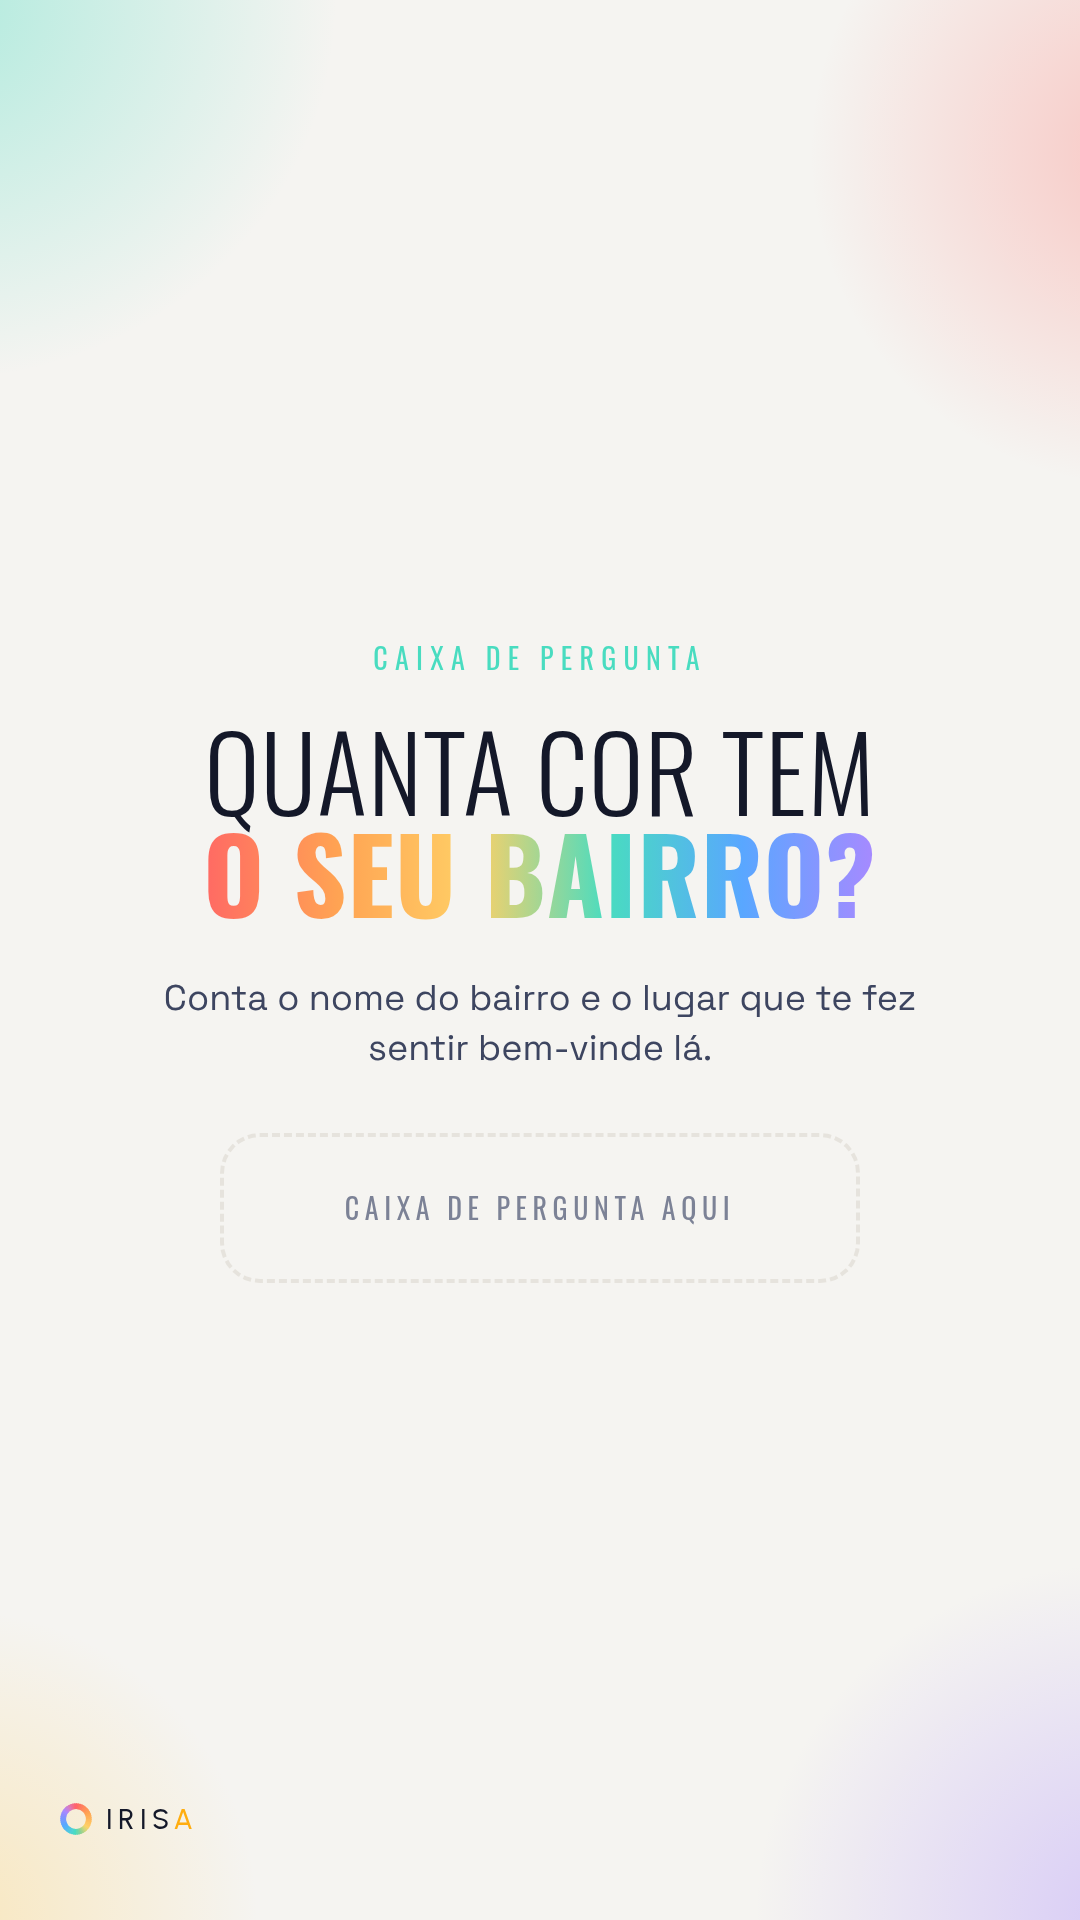
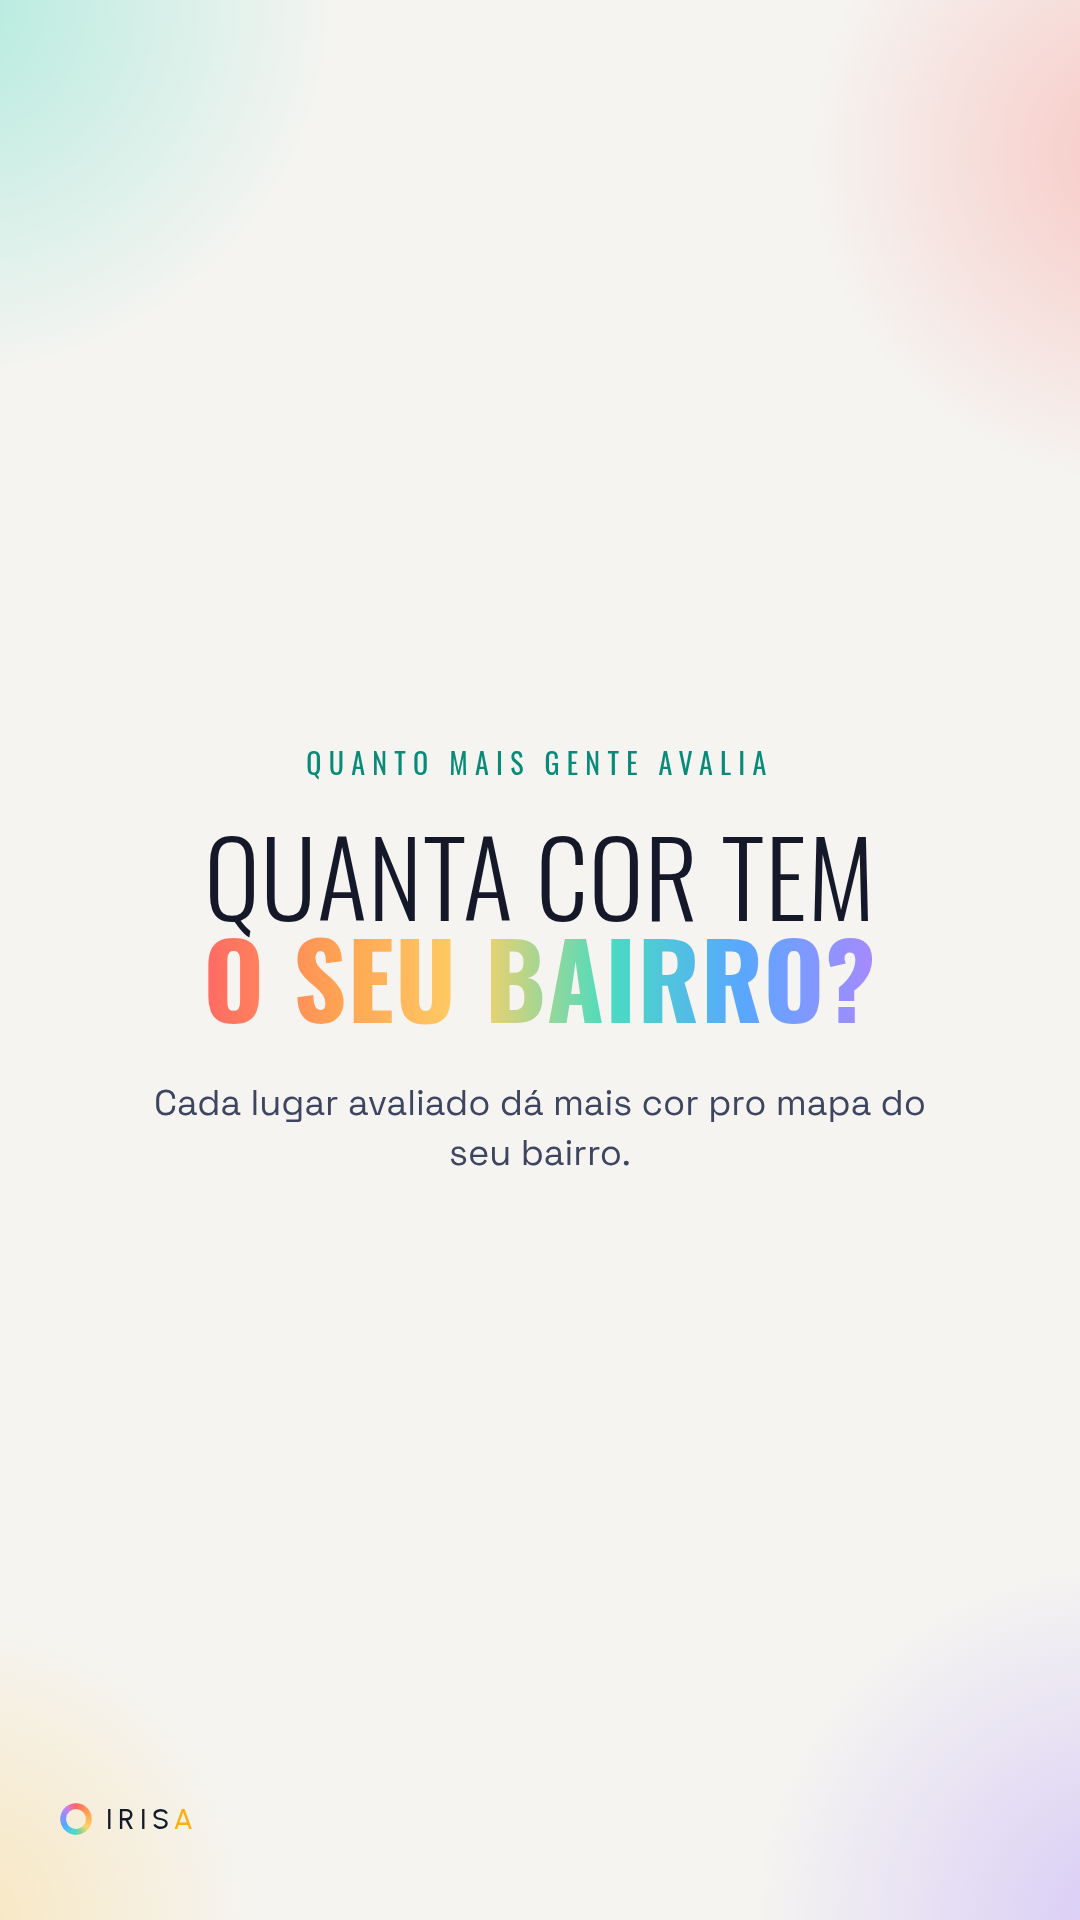
stories-2: remove dependência de adesivo (quiz/caixa/enquete) em 01-03, sem CTA de comentário; 04 continua manual (link)

diff --git a/docs/stories-2.html b/docs/stories-2.html
@@ -491,21 +491,19 @@ span.mark::before{content:"";position:absolute;left:50%;top:50%;width:8px;height
 <body>
 <svg style="position:absolute;width:0;height:0" aria-hidden="true"><defs><symbol id="radarmark" viewBox="0 0 100 100"><path d="M50.00 1.00A49 49 0 0 1 58.82 1.80L55.58 19.51A31 31 0 0 0 50.00 19.00Z" fill="#ff6964"/><path d="M56.40 1.42A49 49 0 0 1 65.03 3.36L59.51 20.49A31 31 0 0 0 54.05 19.27Z" fill="#ff7062"/><path d="M62.68 2.67A49 49 0 0 1 70.99 5.72L63.28 21.99A31 31 0 0 0 58.02 20.06Z" fill="#ff7760"/><path d="M68.75 4.73A49 49 0 0 1 76.59 8.84L66.82 23.96A31 31 0 0 0 61.86 21.36Z" fill="#ff7f5d"/><path d="M74.50 7.56A49 49 0 0 1 81.73 12.67L70.08 26.38A31 31 0 0 0 65.50 23.15Z" fill="#ff875c"/><path d="M79.83 11.13A49 49 0 0 1 86.34 17.13L72.99 29.20A31 31 0 0 0 68.87 25.41Z" fill="#ff8e5a"/><path d="M84.65 15.35A49 49 0 0 1 90.32 22.15L75.51 32.38A31 31 0 0 0 71.92 28.08Z" fill="#ff9558"/><path d="M88.87 20.17A49 49 0 0 1 93.61 27.65L77.59 35.86A31 31 0 0 0 74.59 31.13Z" fill="#ff9c55"/><path d="M92.44 25.50A49 49 0 0 1 96.15 33.53L79.20 39.58A31 31 0 0 0 76.85 34.50Z" fill="#ffa353"/><path d="M95.27 31.25A49 49 0 0 1 97.91 39.70L80.31 43.48A31 31 0 0 0 78.64 38.14Z" fill="#ffa955"/><path d="M97.33 37.32A49 49 0 0 1 98.84 46.04L80.90 47.49A31 31 0 0 0 79.94 41.98Z" fill="#ffae58"/><path d="M98.58 43.60A49 49 0 0 1 98.94 52.45L80.96 51.55A31 31 0 0 0 80.73 45.95Z" fill="#ffb35a"/><path d="M99.00 50.00A49 49 0 0 1 98.20 58.82L80.49 55.58A31 31 0 0 0 81.00 50.00Z" fill="#ffb95d"/><path d="M98.58 56.40A49 49 0 0 1 96.64 65.03L79.51 59.51A31 31 0 0 0 80.73 54.05Z" fill="#ffbf5f"/><path d="M97.33 62.68A49 49 0 0 1 94.28 70.99L78.01 63.28A31 31 0 0 0 79.94 58.02Z" fill="#ffc561"/><path d="M95.27 68.75A49 49 0 0 1 91.16 76.59L76.04 66.82A31 31 0 0 0 78.64 61.86Z" fill="#ffc964"/><path d="M92.44 74.50A49 49 0 0 1 87.33 81.73L73.62 70.08A31 31 0 0 0 76.85 65.50Z" fill="#ffd066"/><path d="M88.87 79.83A49 49 0 0 1 82.87 86.34L70.80 72.99A31 31 0 0 0 74.59 68.87Z" fill="#efd46c"/><path d="M84.65 84.65A49 49 0 0 1 77.85 90.32L67.62 75.51A31 31 0 0 0 71.92 71.92Z" fill="#d7d679"/><path d="M79.83 88.87A49 49 0 0 1 72.35 93.61L64.14 77.59A31 31 0 0 0 68.87 74.59Z" fill="#bed582"/><path d="M74.50 92.44A49 49 0 0 1 66.47 96.15L60.42 79.20A31 31 0 0 0 65.50 76.85Z" fill="#a3d38c"/><path d="M68.75 95.27A49 49 0 0 1 60.30 97.91L56.52 80.31A31 31 0 0 0 61.86 78.64Z" fill="#8bd296"/><path d="M62.68 97.33A49 49 0 0 1 53.96 98.84L52.51 80.90A31 31 0 0 0 58.02 79.94Z" fill="#74d6a4"/><path d="M56.40 98.58A49 49 0 0 1 47.55 98.94L48.45 80.96A31 31 0 0 0 54.05 80.73Z" fill="#5fd9b2"/><path d="M50.00 99.00A49 49 0 0 1 41.18 98.20L44.42 80.49A31 31 0 0 0 50.00 81.00Z" fill="#49dcc0"/><path d="M43.60 98.58A49 49 0 0 1 34.97 96.64L40.49 79.51A31 31 0 0 0 45.95 80.73Z" fill="#4cd7ca"/><path d="M37.32 97.33A49 49 0 0 1 29.01 94.28L36.72 78.01A31 31 0 0 0 41.98 79.94Z" fill="#4fd2d4"/><path d="M31.25 95.27A49 49 0 0 1 23.41 91.16L33.18 76.04A31 31 0 0 0 38.14 78.64Z" fill="#4fcbdc"/><path d="M25.50 92.44A49 49 0 0 1 18.27 87.33L29.92 73.62A31 31 0 0 0 34.50 76.85Z" fill="#50c4e4"/><path d="M20.17 88.87A49 49 0 0 1 13.66 82.87L27.01 70.80A31 31 0 0 0 31.13 74.59Z" fill="#51bcec"/><path d="M15.35 84.65A49 49 0 0 1 9.68 77.85L24.49 67.62A31 31 0 0 0 28.08 71.92Z" fill="#52b4f5"/><path d="M11.13 79.83A49 49 0 0 1 6.39 72.35L22.41 64.14A31 31 0 0 0 25.41 68.87Z" fill="#52aefd"/><path d="M7.56 74.50A49 49 0 0 1 3.85 66.47L20.80 60.42A31 31 0 0 0 23.15 65.50Z" fill="#59a7ff"/><path d="M4.73 68.75A49 49 0 0 1 2.09 60.30L19.69 56.52A31 31 0 0 0 21.36 61.86Z" fill="#63a3ff"/><path d="M2.67 62.68A49 49 0 0 1 1.16 53.96L19.10 52.51A31 31 0 0 0 20.06 58.02Z" fill="#6b9fff"/><path d="M1.42 56.40A49 49 0 0 1 1.06 47.55L19.04 48.45A31 31 0 0 0 19.27 54.05Z" fill="#759aff"/><path d="M1.00 50.00A49 49 0 0 1 1.80 41.18L19.51 44.42A31 31 0 0 0 19.00 50.00Z" fill="#7d96ff"/><path d="M1.42 43.60A49 49 0 0 1 3.36 34.97L20.49 40.49A31 31 0 0 0 19.27 45.95Z" fill="#8791ff"/><path d="M2.67 37.32A49 49 0 0 1 5.72 29.01L21.99 36.72A31 31 0 0 0 20.06 41.98Z" fill="#908dff"/><path d="M4.73 31.25A49 49 0 0 1 8.84 23.41L23.96 33.18A31 31 0 0 0 21.36 38.14Z" fill="#9d8bff"/><path d="M7.56 25.50A49 49 0 0 1 12.67 18.27L26.38 29.92A31 31 0 0 0 23.15 34.50Z" fill="#a889ff"/><path d="M11.13 20.17A49 49 0 0 1 17.13 13.66L29.20 27.01A31 31 0 0 0 25.41 31.13Z" fill="#b684f0"/><path d="M15.35 15.35A49 49 0 0 1 22.15 9.68L32.38 24.49A31 31 0 0 0 28.08 28.08Z" fill="#c681dd"/><path d="M20.17 11.13A49 49 0 0 1 27.65 6.39L35.86 22.41A31 31 0 0 0 31.13 25.41Z" fill="#d37eca"/><path d="M25.50 7.56A49 49 0 0 1 33.53 3.85L39.58 20.80A31 31 0 0 0 34.50 23.15Z" fill="#de78b3"/><path d="M31.25 4.73A49 49 0 0 1 39.70 2.09L43.48 19.69A31 31 0 0 0 38.14 21.36Z" fill="#ea709b"/><path d="M37.32 2.67A49 49 0 0 1 46.04 1.16L47.49 19.10A31 31 0 0 0 41.98 20.06Z" fill="#f56a85"/><path d="M43.60 1.42A49 49 0 0 1 52.45 1.06L51.55 19.04A31 31 0 0 0 45.95 19.27Z" fill="#ff636e"/></symbol></defs></svg>
 <section class="sl story" style="justify-content:center;gap:0"><div class="bg"></div><div class="brand"><svg class="mark" viewBox="0 0 100 100"><use href="#radarmark"></use></svg><span>Iris<b>a</b></span></div>
-<div class="small c" style="color:var(--coral)">responde no quiz</div>
+<div class="small c" style="color:var(--coralInk)">pergunta que todo mundo tem</div>
  <p class="big c" style="font-size:96px;margin:40px 60px 50px"><span style="font-weight:300">“Se eu registrar,</span><br>o bar fica sabendo<br><span class="rainbow">que fui eu?”</span></p>
- <div class="zone">adesivo de quiz aqui</div>
- <p class="body c" style="max-width:820px;margin-top:80px;font-size:34px;color:var(--dim)">A resposta completa sai hoje às 18h no feed.</p>
+ <p class="big c rainbow" style="font-size:70px;margin-top:36px">Não.</p>
+ <p class="body c" style="max-width:820px;margin-top:50px;font-size:34px;color:var(--dim)">Ninguém vê quem registrou — nem o bar, nem outra pessoa, nem a gente.</p>
 </section>
 <section class="sl story" style="justify-content:center;gap:0"><div class="bg"></div><div class="brand"><svg class="mark" viewBox="0 0 100 100"><use href="#radarmark"></use></svg><span>Iris<b>a</b></span></div>
-<div class="small c" style="color:var(--turq)">caixa de pergunta</div>
+<div class="small c" style="color:var(--turqInk)">quanto mais gente avalia</div>
  <p class="big c" style="font-size:104px;margin:40px 60px 50px"><span style="font-weight:300">Quanta cor tem</span><br><span class="rainbow">o seu bairro?</span></p>
- <p class="body c" style="max-width:820px;font-size:36px">Conta o nome do bairro e o lugar que te fez sentir bem-vinde lá.</p>
- <div class="zone">caixa de pergunta aqui</div>
+ <p class="body c" style="max-width:820px;font-size:36px">Cada lugar avaliado dá mais cor pro mapa do seu bairro.</p>
 </section>
 <section class="sl story" style="justify-content:center;gap:0"><div class="bg"></div><div class="brand"><svg class="mark" viewBox="0 0 100 100"><use href="#radarmark"></use></svg><span>Iris<b>a</b></span></div>
-<div class="small c" style="color:var(--coral)">enquete</div>
+<div class="small c" style="color:var(--coralInk)">acontece mais do que parece</div>
  <p class="big c" style="font-size:96px;margin:40px 60px 50px"><span style="font-weight:300">Você já deixou de ir</span><br>num lugar<br><span class="rainbow">por medo?</span></p>
- <div class="zone">enquete: sim · não</div>
  <p class="body c" style="max-width:820px;margin-top:80px;font-size:34px;color:var(--dim)">É exatamente para isso que o mapa existe.</p>
 </section>
 <section class="sl story" style="justify-content:center;gap:0"><div class="bg"></div><div class="brand"><svg class="mark" viewBox="0 0 100 100"><use href="#radarmark"></use></svg><span>Iris<b>a</b></span></div>
